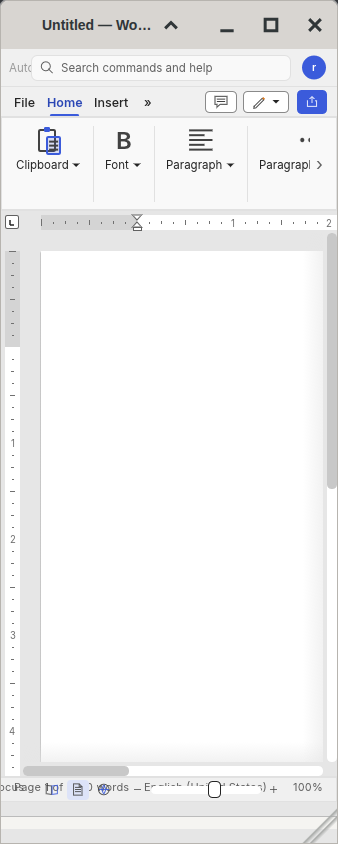
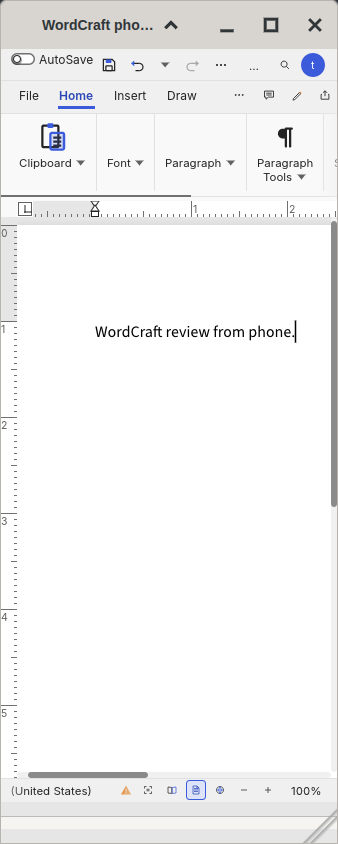
Verify four Office app workflows across four viewport sizes

diff --git a/reviews/live-apps/FIX-QUEUE.md b/reviews/live-apps/FIX-QUEUE.md
@@ -5,7 +5,7 @@
 | SoundCraft | High. With an armed track, browser recording lacks an audio input path. | The hosted editor now reports the missing input and survives Record. Verify real microphone capture and audible playback on hardware. |
 | SoundCraft | High. Press Close and Discard after attempting Record. The edited window took 23.7 seconds to close on software-rendered Chromium. | Open. Profile the delay through the two clicks and repeat on hardware. [Hosted review](soundcraft/README.md) |
 | Weather Maps | The layer panel intercepted the start of the forecast slider at several tablet widths. | Fixed on ksu.codes. Seven touch-emulated widths passed. Physical iPad confirmation is open. |
-| WordCraft | Open Office → WordCraft in a 390 × 844 touch viewport. The rightmost ribbon group clips, and footer text and controls overlap. [Phone screenshot](wordcraft/phone.png) | Open. Retest compact writing controls, readable status, virtual keyboard, and opening the same saved document on desktop. |
+| WordCraft | Open Office → WordCraft in a 390 × 844 touch viewport. The rightmost ribbon group clips, and footer text and controls overlap. [Phone screenshot](wordcraft/phone.png) | Open. Phone typing and desktop reopen passed with an emulated keyboard after the upgrade. Compact ribbon, page and status layout, physical virtual keyboard and touch-only saving remain open. |
 | Files | Medium. Select one file in the default tablet window at 820 × 1180. The toolbar wraps and the selected row moves down 38 CSS pixels. | Fixed. Zero movement on selection and deselection across 13 window widths. [Retest](files/selection-fixed.png) |
 | Linux X11 | Medium. On a cold launch the screen can sit at SeaBIOS with “Starting xterm and xclock…” and then turn black before the graphical clients appear. A desktop user reported the wait looked like a failed boot. | Open. Measure download, guest boot, Xorg and first usable xterm separately. Show the current stage during the display switch and retest on a slower device. |
 | Weather | Low. At a 390 × 844 phone viewport, the window truncates Sacramento to “Sacr…” and Tomorrow to “Tomor…”. | Open. Check name readability while preserving touch access to the seven-day forecast. [Phone screenshot](weather/phone.png) |
@@ -33,3 +33,6 @@
 | Garden Defense | Medium. Touch users have to scroll between the playfield and the build controls. | Open. Keep site selection and build inputs near the current map. [Screenshots](garden-defense/README.md) |
 | Pocket Golf | Medium. At phone width, the putt and aim controls sit below the visible course. | Open. Keep the ball and basic putt controls visible together during compact play. [Screenshots](pocket-golf/README.md) |
 | Sky Courier | Medium. Phone firing controls are below the scene. At 4K the field canvas stays about 327 × 491 pixels while the surrounding stage grows. | Open. Keep flight controls adjacent to the scene and make the live playfield easier to see on large displays. [Screenshots](sky-courier/README.md) |
+| GridCraft | High on phone. The top Save and theme areas overlap at 390 × 844. Clicking near Save switched the theme. | Ctrl+S saved the account file and a fresh desktop reopened the same revision. Make touch Save distinct and verify it on a physical phone. [Screenshots](gridcraft/README.md) |
+| DeckCraft | High on phone. The 236-pixel thumbnail pane leaves a 48 × 27-pixel slide in the 336-pixel editor. | Keep the slide usable on first launch and let users open the thumbnails on demand. Check touch editing of slide content and notes. [Screenshots](deckcraft/README.md) |
+| PdfCraft | High on phone. All tools opens over nearly the full width of the document area at 390 × 844. | Make the page visible on open and the tools accessible when needed. Verify fit-to-page and zoom on a physical phone. [Screenshots](pdfcraft/README.md) |

diff --git a/reviews/live-apps/wordcraft/README.md b/reviews/live-apps/wordcraft/README.md
@@ -1,13 +1,19 @@
 # WordCraft
 
-A signed-in launch from Office opened the editor at a blank document. The desktop window showed the full ribbon. On a 390 × 844 CSS-pixel viewport the editing surface measured 336 × 794 after the desktop frame and apps bar. WordCraft collapsed parts of the ribbon into groups. The rightmost group, document width and status text still clipped, and some footer controls overlapped.
+Type text into the document, save the DOCX to My files and reopen the phone revision in a fresh desktop browser. Append text and verify the original text remains.
 
-| View | Capture |
-|---|---|
-| Desktop | ![WordCraft Home ribbon in a desktop window](desktop.png) |
-| Phone | ![WordCraft ribbon and clipped footer in a narrow touch window](phone.png) |
+| Viewport | Input | Result | Screenshot |
+|---|---|---|---|
+| 390 × 844 | Emulated touch | Edit and account save passed | [phone](phone.png) |
+| 820 × 1,180 | Emulated touch | Edit and account save passed | [tablet](tablet.png) |
+| 1,920 × 1,080 | Mouse | Edit and account save passed | [desktop](desktop.png) |
+| 3,840 × 2,160 | Mouse | Edit and account save passed | [4k](4k.png) |
 
-Review status is partial. Opening and resizing were observed. Typing with the virtual keyboard, saving on a phone, reopening on desktop, PDF export and printing still need a signed-in cross-device test. Browser was Chromium. The desktop screenshot shows a tiled window in a 1920 × 1080 desktop. The phone screenshot uses emulated touch.
+The phone capture still shows a clipped ribbon and a horizontally scrolling page. The review used the F12 and Ctrl+S shortcuts to verify the account workflow. Virtual keyboard, touch-only saving, and physical printing remain to be checked.
+
+The browser used a disposable account and a fresh context at each size. Physical-device input, software keyboard and GPU performance still need hardware testing.
+
[1 lines of base64/hex data omitted]
 
 ## Browser dictation
 

diff --git a/reviews/live-apps/README.md b/reviews/live-apps/README.md
@@ -20,7 +20,7 @@ For an editor that supports phone edits, verify that the saved file reopens on d
 | clockwork-quest | Pending |
 | clockwork-room | Pending |
 | crystal-defense | [Review and screenshots](crystal-defense/README.md) |
-| deckcraft | Pending |
+| deckcraft | [Review and screenshots](deckcraft/README.md) |
 | designcraft | Pending |
 | diagrams-net | Pending |
 | digital-logic | Pending |
@@ -41,7 +41,7 @@ For an editor that supports phone edits, verify that the saved file reopens on d
 | garden-defense | [Review and screenshots](garden-defense/README.md) |
 | gcode-preview | [Review and screenshots](gcode-preview/README.md) |
 | gravity-pinball | Pending |
-| gridcraft | Pending |
+| gridcraft | [Review and screenshots](gridcraft/README.md) |
 | help | [Review and screenshots](help/README.md) |
 | image-editor | Pending |
 | kinetic-relay | Pending |
@@ -59,7 +59,7 @@ For an editor that supports phone edits, verify that the saved file reopens on d
 | orbital-courier | Pending |
 | owl-companion | [Review and screenshots](owl-companion/README.md) |
 | pcbcraft | Pending |
-| pdfcraft | Pending |
+| pdfcraft | [Review and screenshots](pdfcraft/README.md) |
 | photocraft | [Review and screenshots](photocraft/README.md) |
 | physics-playground | Pending |
 | pico-simulator | Pending |
@@ -87,6 +87,6 @@ For an editor that supports phone edits, verify that the saved file reopens on d
 | vectorcraft | Pending |
 | weather | [Review and screenshots](weather/README.md) |
 | weather-maps | [Review and screenshot](weather-maps/README.md) |
-| wordcraft | [Partial review and desktop/phone screenshots](wordcraft/README.md) |
+| wordcraft | [Review and screenshots](wordcraft/README.md) |
 
 [Fix queue](FIX-QUEUE.md)

diff --git a/reviews/live-apps/pdfcraft/README.md b/reviews/live-apps/pdfcraft/README.md
@@ -1,0 +1,16 @@
+# PdfCraft
+
+Use Organize pages to rotate a page, save the PDF to My files, then reopen the phone revision on desktop and verify the saved rotation before rotating and saving again.
+
+| Viewport | Input | Result | Screenshot |
+|---|---|---|---|
+| 390 × 844 | Emulated touch | Edit and account save passed | [phone](phone.png) |
+| 820 × 1,180 | Emulated touch | Edit and account save passed | [tablet](tablet.png) |
+| 1,920 × 1,080 | Mouse | Edit and account save passed | [desktop](desktop.png) |
+| 3,840 × 2,160 | Mouse | Edit and account save passed | [4k](4k.png) |
+
+The phone defaults to the All tools panel across almost the entire editing area. Organize pages actions remain reachable, although the panel leaves only a sliver of the page area visible.
+
+The browser used a disposable account and a fresh context at each size. Physical-device input, software keyboard and GPU performance still need hardware testing.
+
[1 lines of base64/hex data omitted]

diff --git a/reviews/live-apps/deckcraft/README.md b/reviews/live-apps/deckcraft/README.md
@@ -1,0 +1,16 @@
+# DeckCraft
+
+Enter a speaker note, save the presentation to My files, then reopen the same phone revision on desktop and append to the note.
+
+| Viewport | Input | Result | Screenshot |
+|---|---|---|---|
+| 390 × 844 | Emulated touch | Edit and account save passed | [phone](phone.png) |
+| 820 × 1,180 | Emulated touch | Edit and account save passed | [tablet](tablet.png) |
+| 1,920 × 1,080 | Mouse | Edit and account save passed | [desktop](desktop.png) |
+| 3,840 × 2,160 | Mouse | Edit and account save passed | [4k](4k.png) |
+
+On the phone the thumbnail pane takes about 236 pixels of a 336-pixel editor. The slide itself measured 48 × 27 pixels at 5% zoom. The notes field accepted text, but the displayed slide is too small for comfortable editing.
+
+The browser used a disposable account and a fresh context at each size. Physical-device input, software keyboard and GPU performance still need hardware testing.
+
[1 lines of base64/hex data omitted]

diff --git a/reviews/live-apps/gridcraft/README.md b/reviews/live-apps/gridcraft/README.md
@@ -1,0 +1,16 @@
+# GridCraft
+
+Enter and calculate a formula, save the workbook to My files, then change the result after reopening the phone workbook from Files on desktop.
+
+| Viewport | Input | Result | Screenshot |
+|---|---|---|---|
+| 390 × 844 | Emulated touch | Edit and account save passed | [phone](phone.png) |
+| 820 × 1,180 | Emulated touch | Edit and account save passed | [tablet](tablet.png) |
+| 1,920 × 1,080 | Mouse | Edit and account save passed | [desktop](desktop.png) |
+| 3,840 × 2,160 | Mouse | Edit and account save passed | [4k](4k.png) |
+
+At phone width the Save icon overlaps the theme control. A tap in that area switched theme. Ctrl+S opened the account save dialog. The worksheet and formula remained usable with an emulated keyboard.
+
+The browser used a disposable account and a fresh context at each size. Physical-device input, software keyboard and GPU performance still need hardware testing.
+
[1 lines of base64/hex data omitted]
